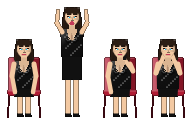
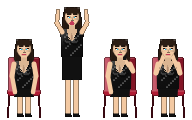
Celeb 01 in a wine-red sequined feather gown; suits match top to bottom; fuller bust shaping
- New 'gown' outfit (code-drawn): long sleeves with feather cuffs, a fluffy feather peplum at the
  hips, and a floor-length sequined skirt (draped seated, mermaid flare standing), all one deep
  tone. Celeb 01 wears it in wine red.
- Suit / tracksuit trousers and lap use the jacket's shading (they used to be a flat, brighter
  color), so 12's pink suit no longer changes color between top and pants.
- The owner's pixel edits on 01 and 12 are carried onto the regenerated bodies exactly (only the
  pixels they changed). Bust shaping on 01, 09, 12, 16 is fuller (wider under-bust curves, larger
  highlight, outer contour).

Claude-Session: https://claude.ai/code/session_01CcgHT1pqBqfrX5GZbFhXLS

diff --git a/src/render/celebs.ts b/src/render/celebs.ts
@@ -12,7 +12,7 @@ export const CELEB_FRAMES = 4;
 
 export interface CelebLook {
   a: Appearance;
-  outfit: 'fur' | 'suit' | 'dress' | 'tracksuit' | 'leather' | 'tee' | 'hoodie';
+  outfit: 'fur' | 'suit' | 'dress' | 'tracksuit' | 'leather' | 'tee' | 'hoodie' | 'gown';
   color: string; accent: string;
   hat: 'none' | 'brim' | 'beanie' | 'cap';
   hatColor: string;
@@ -97,8 +97,11 @@ function drawCeleb(ctx: Ctx, ox: number, c: CelebLook, frame: number) {
   // legs + shoes (dress: bare legs with heels; otherwise trousers)
   const shinTop = standing ? floor - L(38) : floor - L(21);
   const plain = c.outfit === 'tee' || c.outfit === 'hoodie';
-  const legCol = c.outfit === 'dress' ? skin : c.outfit === 'suit' ? col : c.outfit === 'tracksuit' ? col : plain ? '#2c3a58' : '#1a1a22'; // plain fans wear jeans
-  for (const s of [-1, 1]) {
+  // trousers of a suit / tracksuit are the jacket's mid-tone (the jacket is shaded, so plain `col` read brighter)
+  const matched = shade(col, 0.86);
+  const legCol = c.outfit === 'dress' ? skin : c.outfit === 'suit' || c.outfit === 'tracksuit' ? matched : plain ? '#2c3a58' : '#1a1a22'; // plain fans wear jeans
+  const gown = c.outfit === 'gown';
+  for (const s of gown ? [] : [-1, 1]) {
     const lx = cx + s * L(4);
     line(ctx, [[lx, shinTop], [lx, floor - L(3)]], L(5), legCol);
     poly(ctx, [[lx - L(3), floor - L(3.5)], [lx + L(3.2), floor - L(3.5)], [lx + L(3.6), floor], [lx - L(3.2), floor]], c.outfit === 'dress' ? c.accent : '#101010');
@@ -108,8 +111,21 @@ function drawCeleb(ctx: Ctx, ox: number, c: CelebLook, frame: number) {
   // a dress continues below the waist in the same shaded, sequined fabric as the top
   // (same gradient as the top: it simply carries on past the waist, so the dress reads as one piece)
   let lap: string | CanvasGradient = legCol;
-  if (c.outfit === 'dress') { const t0 = hipY - L(28); lap = ctx.createLinearGradient(cx - L(12), t0, cx + L(12), hipY); lap.addColorStop(0, hi); lap.addColorStop(0.4, col); lap.addColorStop(1, sh); }
+  if (c.outfit === 'dress' || c.outfit === 'suit' || c.outfit === 'tracksuit' || gown) { const t0 = hipY - L(28); lap = ctx.createLinearGradient(cx - L(12), t0, cx + L(12), hipY); lap.addColorStop(0, hi); lap.addColorStop(0.4, col); lap.addColorStop(1, sh); }
   poly(ctx, [[cx - L(10), hipY], [cx + L(10), hipY], [cx + L(9.5), shinTop + 1], [cx - L(9.5), shinTop + 1]], lap);
+  if (gown) {
+    // floor-length sequined skirt: seated it drapes off the knees to the floor; standing it's a mermaid line that
+    // hugs the knees and flares out at the hem, with a little train
+    const skirt = ctx.createLinearGradient(cx - L(11), shinTop, cx + L(11), floor);
+    skirt.addColorStop(0, col); skirt.addColorStop(0.5, sh); skirt.addColorStop(1, dk); // same deep tone as the bodice
+    if (standing) poly(ctx, [[cx - L(10), hipY], [cx + L(10), hipY], [cx + L(7.5), shinTop + L(6)], [cx + L(9), floor - L(6)], [cx + L(13), floor + 1], [cx - L(12), floor + 1], [cx - L(8.5), floor - L(6)], [cx - L(7.5), shinTop + L(6)]], skirt);
+    else poly(ctx, [[cx - L(9.5), shinTop], [cx + L(9.5), shinTop], [cx + L(10.5), floor - L(1)], [cx + L(11), floor + 1], [cx - L(11), floor + 1], [cx - L(10.5), floor - L(1)]], skirt);
+    const top = standing ? hipY : shinTop, span = floor - top;
+    for (let i = 0; i < (standing ? 34 : 16); i++) { // sequin glints
+      const t = ((i * 13) % 23) / 23, w = standing ? 7.5 + (t > 0.7 ? (t - 0.7) * 14 : 0) : 9.5;
+      ell(ctx, cx + L((((i * 37) % 19) / 18 * 2 - 1) * w), top + L(2) + t * (span - L(3)), L(0.5), L(0.5), i % 4 ? tint(col, 0.55) : '#ffffff');
+    }
+  }
   if (c.outfit === 'dress') { const span = Math.max(2, shinTop - hipY - L(1)); for (let i = 0; i < (standing ? 12 : 6); i++) ell(ctx, cx + L(((i * 37) % 19) - 9), hipY + L(1) + ((i * 13) % 24) / 24 * span, L(0.6), L(0.6), '#ffffff'); }
   // torso / outfit
   const shY = hipY - L(28);
@@ -134,6 +150,9 @@ function drawCeleb(ctx: Ctx, ox: number, c: CelebLook, frame: number) {
     poly(ctx, [[cx - L(3.5), shY], [cx + L(3.5), shY], [cx, shY + L(16)]], c.outfit === 'suit' ? '#f4f4f4' : c.accent);
     line(ctx, [[cx - L(3.5), shY], [cx - L(1), shY + L(16)]], L(1.6), dk); line(ctx, [[cx + L(3.5), shY], [cx + L(1), shY + L(16)]], L(1.6), dk);
     if (c.outfit === 'leather') for (let i = 0; i < 4; i++) ell(ctx, cx + L(-7 + i * 4.5), shY + L(6 + (i % 2) * 3), L(1.2), L(0.8), tint(col, 0.6)); // shine
+  } else if (gown) {
+    for (let i = 0; i < 26; i++) ell(ctx, cx + L(((i * 37) % 19) - 9), shY + L(3 + ((i * 13) % 24)), L(0.5), L(0.5), i % 4 ? tint(col, 0.55) : '#ffffff'); // sequins
+    poly(ctx, [[cx - L(4), shY], [cx + L(4), shY], [cx, shY + L(6)]], skin);
   } else if (c.outfit === 'dress') {
     for (let i = 0; i < 18; i++) ell(ctx, cx + L(((i * 37) % 19) - 9), shY + L(3 + ((i * 13) % 24)), L(0.6), L(0.6), '#ffffff'); // sequins
     poly(ctx, [[cx - L(4), shY], [cx + L(4), shY], [cx, shY + L(6)]], skin);
@@ -149,6 +168,19 @@ function drawCeleb(ctx: Ctx, ox: number, c: CelebLook, frame: number) {
     line(ctx, [[cx, shY + L(1)], [cx, hipY]], L(1), dk);
   }
   if (c.chain) line(ctx, [[cx - L(4), shY + L(1)], [cx, shY + L(9)], [cx + L(4), shY + L(1)]], L(1.2), '#ffd84a');
+  // feather peplum around the hips: a fluffy band with tufts hanging over the skirt
+  // full, fluffy feathers: a dense puffy band, then wispy tufts of uneven length hanging below it
+  const feathers = (x0: number, x1: number, y: number, n: number, drop: number, puff = 1) => {
+    for (let i = 0; i < n; i++) {
+      const t = i / (n - 1), x = x0 + (x1 - x0) * t, j = ((i * 7) % 5) / 4;
+      line(ctx, [[x, y], [x + L(j - 0.5), y + L(drop * (0.55 + 0.45 * j))]], L(1.6), i % 3 === 0 ? sh : i % 3 === 1 ? col : dk);
+    }
+    for (let i = 0; i < n * 2; i++) {
+      const t = i / (n * 2 - 1), x = x0 + (x1 - x0) * t, j = ((i * 5) % 7) / 6;
+      ell(ctx, x, y - L(1) + L(j * 2.2 - 1.1) * puff, L(1.8) * puff, L(1.6) * puff, i % 3 === 0 ? tint(col, 0.18) : i % 3 === 1 ? col : sh);
+    }
+  };
+  if (gown) feathers(cx - L(13), cx + L(13), hipY + L(1.5), 16, standing ? 7 : 4.5, 1.15);
   // arms
   const sleeve = c.outfit === 'dress' ? skin : col;
   for (const s of [-1, 1]) {
@@ -162,6 +194,7 @@ function drawCeleb(ctx: Ctx, ox: number, c: CelebLook, frame: number) {
     line(ctx, [sh0, el], L(c.outfit === 'fur' ? 7 : 5), c.outfit === 'tee' ? skin : sleeve);
     if (c.outfit === 'tee') line(ctx, [sh0, [sh0[0] + (el[0] - sh0[0]) * 0.45, sh0[1] + (el[1] - sh0[1]) * 0.45]], L(6), sleeve);
     line(ctx, [el, hand], L(c.outfit === 'fur' ? 6 : 4.4), c.outfit === 'tee' ? skin : sleeve);
+    if (gown) { const cuff: [number, number] = [el[0] + (hand[0] - el[0]) * 0.72, el[1] + (hand[1] - el[1]) * 0.72]; feathers(cuff[0] - L(2.5), cuff[0] + L(2.5), cuff[1], 4, 2.5); }
     ell(ctx, hand[0], hand[1], L(2.2), L(2.2), skin);
     if (frame === 2 && s === 1) { poly(ctx, [[hand[0] - L(2.5), hand[1] - L(5)], [hand[0] + L(2.5), hand[1] - L(5)], [hand[0] + L(2.5), hand[1] + L(1)], [hand[0] - L(2.5), hand[1] + L(1)]], '#151515'); ell(ctx, hand[0] - L(1), hand[1] - L(4), L(0.7), L(0.7), '#9fe6ff'); }
   }

diff --git a/src/render/celebArt.ts b/src/render/celebArt.ts
@@ -20,6 +20,10 @@ export { castName };
 export function castLook(i: number): CelebLook {
   const r = new Rng(1000 + i * 7919);
   const look = randomCeleb(() => r.next());
+  if (i === 1) {
+    // #01: wine-red sequined gown, long sleeves, feather peplum and cuffs, floor-length mermaid skirt
+    Object.assign(look, { outfit: 'gown', color: '#8e1324', accent: '#b8182c', chain: false });
+  }
   if (i === 16) {
     // #16: fair skin, long platinum-blonde hair, blue eyes; sapphire sequin dress, silver heels
     Object.assign(look.a, { skin: 0, hair: 'fade', hairColor: '#ecd9a6', eyeColor: '#3f8fff', facial: 'none', mouth: 'smile', eyeY: 0, mouthY: 0 });
